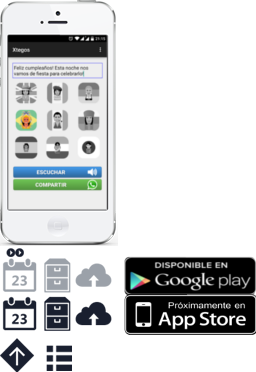
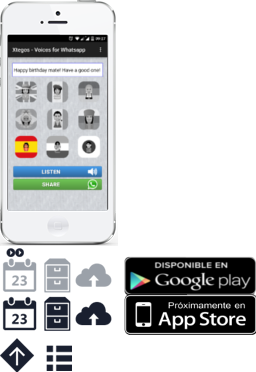
modified:   smartphone/css/style.css

Changed region(s): [[0.0312, 0.0887, 0.4375, 0.5914]]

diff --git a/smartphone/css/style.css b/smartphone/css/style.css
@@ -160,6 +160,25 @@ body{
 	margin-bottom: 1.5em;
 	margin: 0 auto;
 }
+
+#img-banner-picES{
+	width: 120px;
+	text-align: left;
+	background: url(../images/img-sprit1-es.png) no-repeat;
+	height: 248px;
+	margin-bottom: 1.5em;
+	margin: 0 auto;
+}
+
+#img-banner-picEN{
+	width: 120px;
+	text-align: left;
+	background: url(../images/img-sprit1.png) no-repeat;
+	height: 248px;
+	margin-bottom: 1.5em;
+	margin: 0 auto;
+}
+
 .img-banner-info p{
 	margin: 0.5em;
 	font-size: 0.875em;
